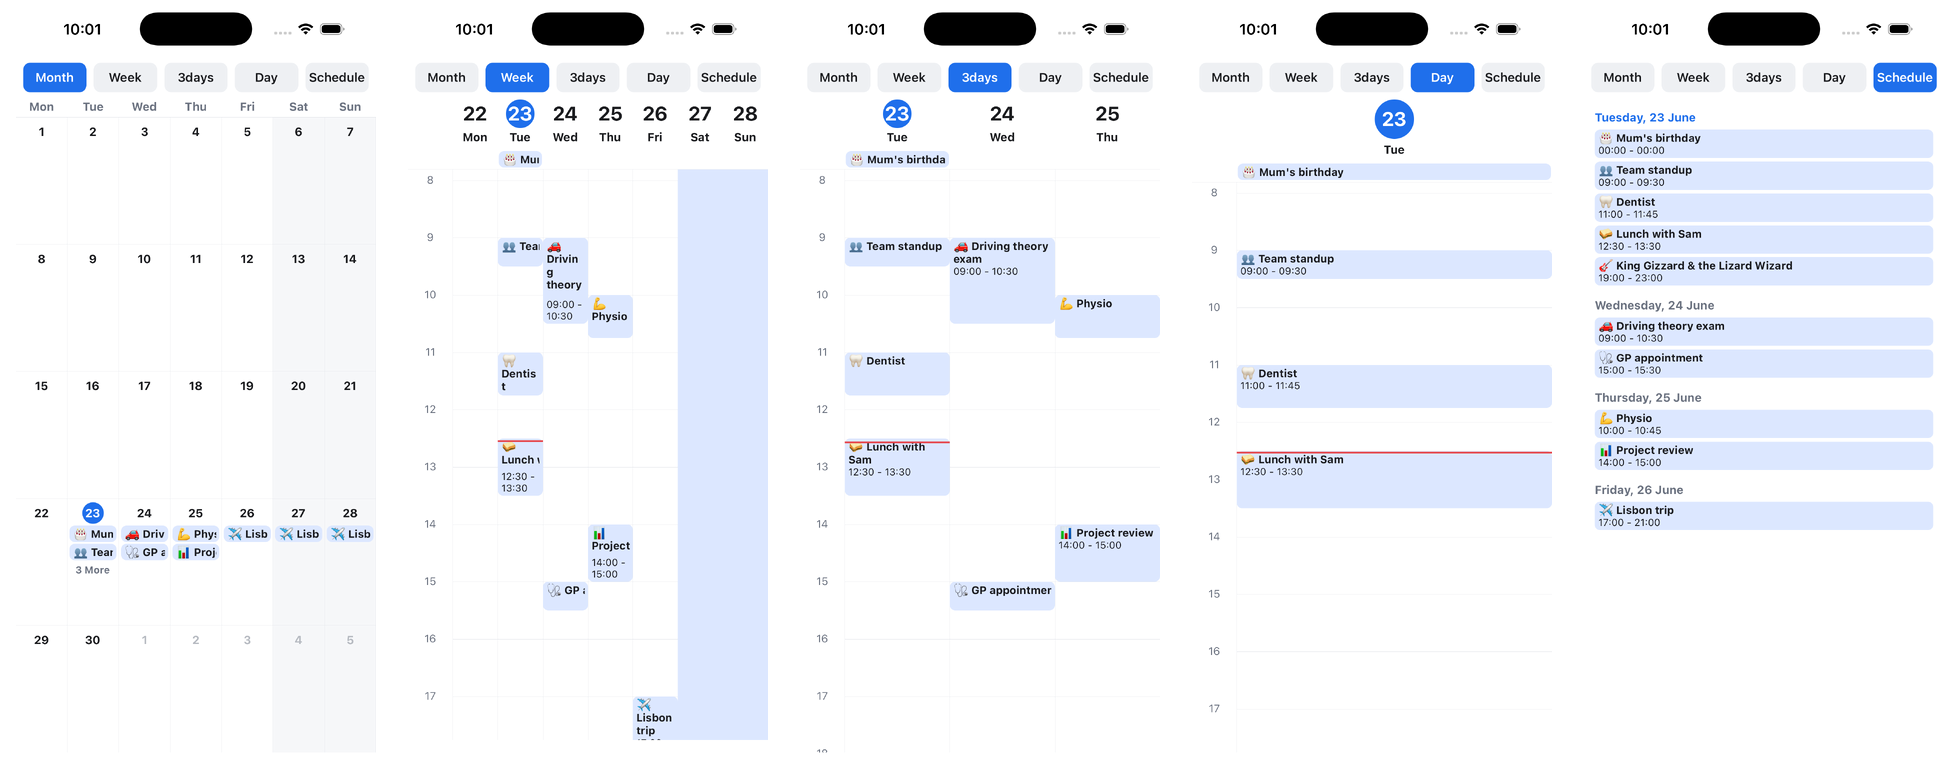
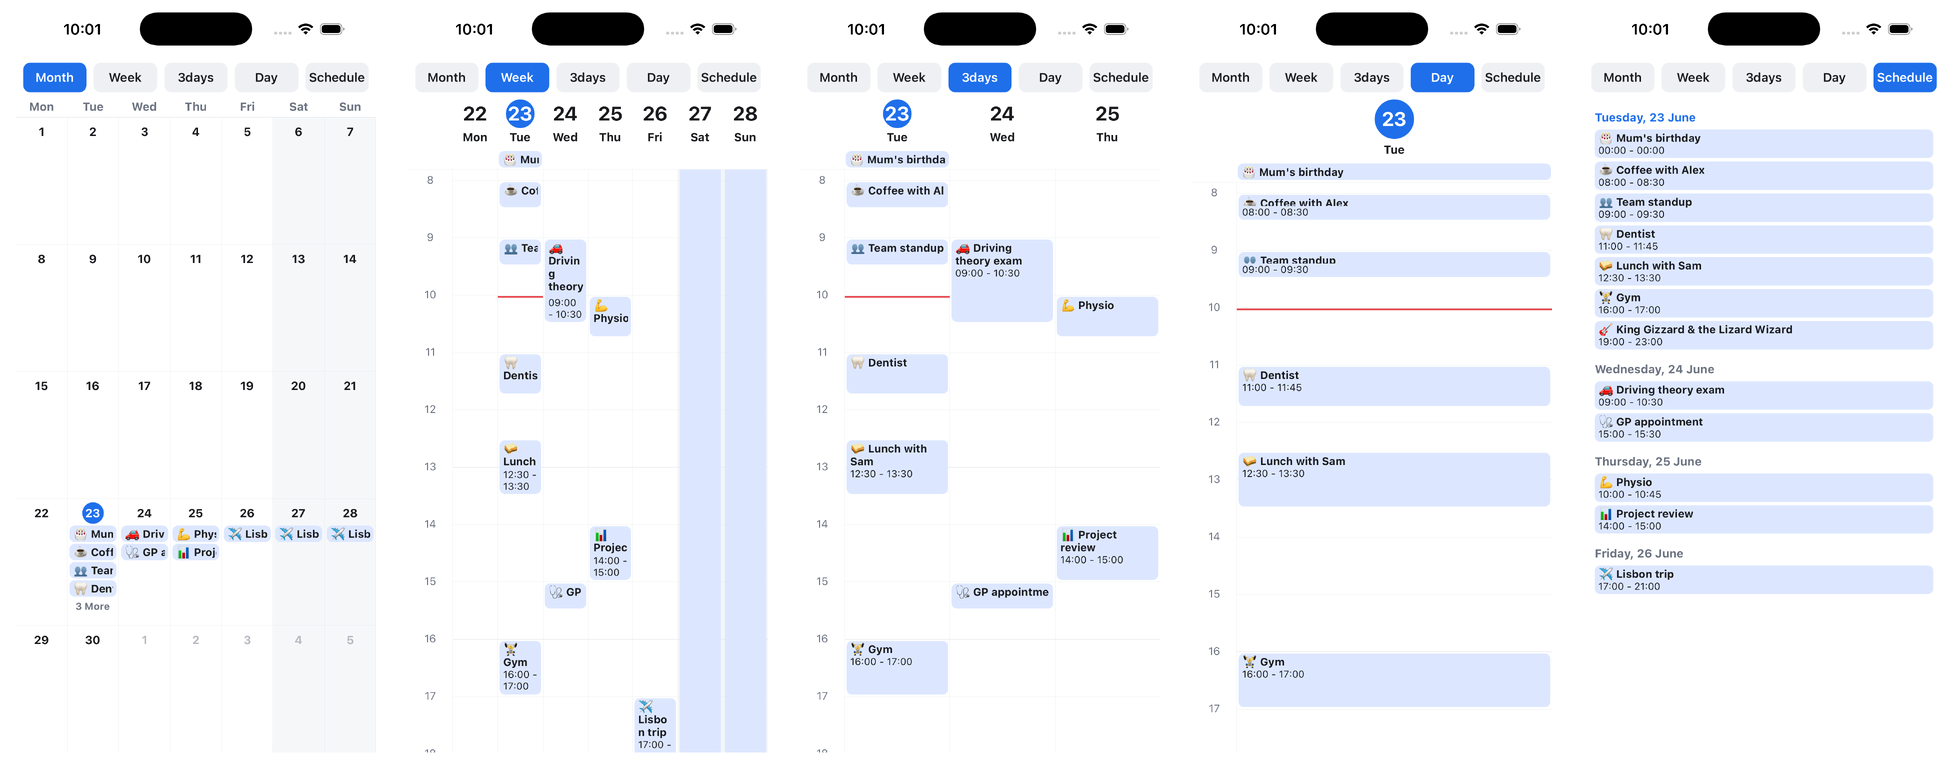
docs: document month auto-fit and refresh the preview

diff --git a/README.md b/README.md
@@ -168,6 +168,21 @@ work-week). Day/3-day/custom views page by their column count; `week` pages by
 the calendar week. `schedule` is a vertical, day-grouped agenda list of the
 events you pass (no time grid).
 
+### Month view
+
+Each day cell shows as many event chips as its height allows and collapses the
+rest into a `+N more` label (tap it via `onPressMore`). The fit is measured at
+runtime, so taller grids (fewer week rows, larger screens) show more.
+
+```tsx
+<Calendar mode="month" /* ... */ />          // auto-fit (default)
+<Calendar mode="month" maxVisibleEventCount={3} /* ... */ /> // fixed cap
+```
+
+Pass `maxVisibleEventCount` for a fixed cap instead — recommended when you pass a
+custom `renderEvent`, since auto-fit assumes the built-in chip height. Customize
+the overflow text with `moreLabel` (e.g. `"+{moreCount}"`).
+
 ### Localization
 
 Pass a date-fns [`Locale`](https://date-fns.org/docs/I18n) to localize weekday and